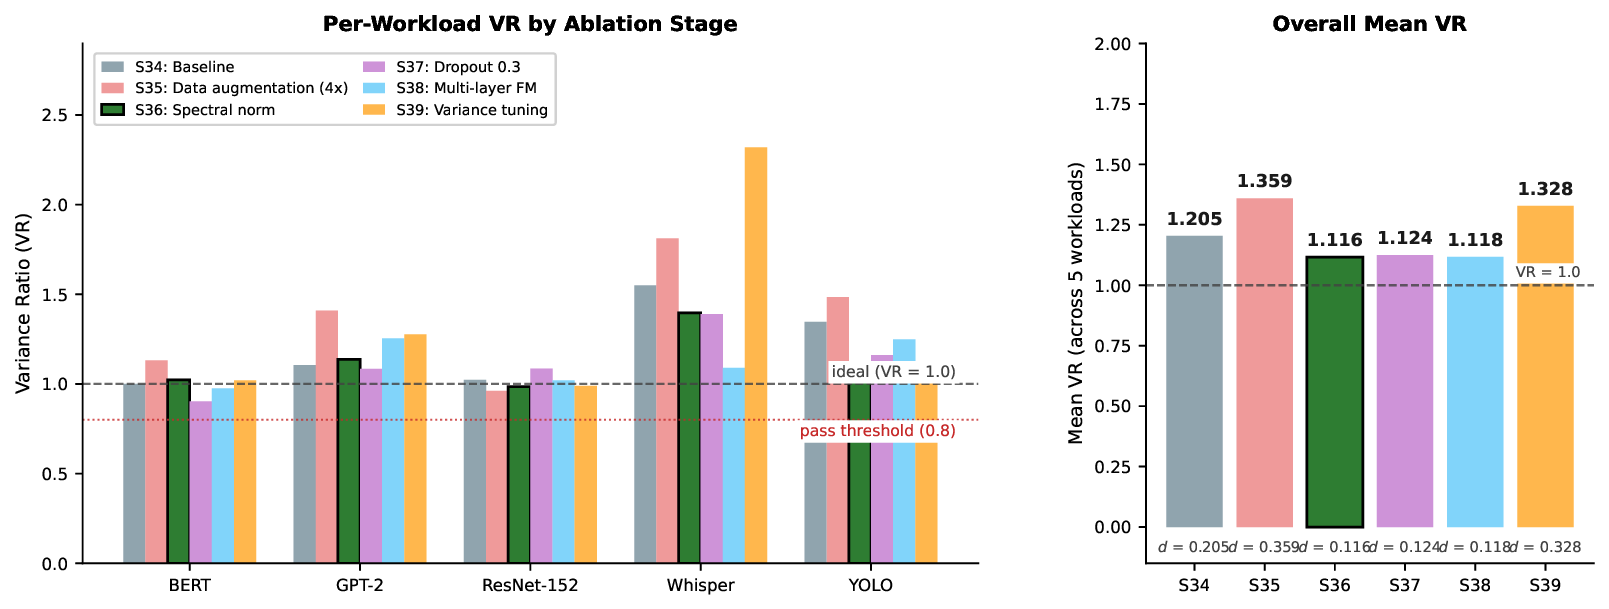
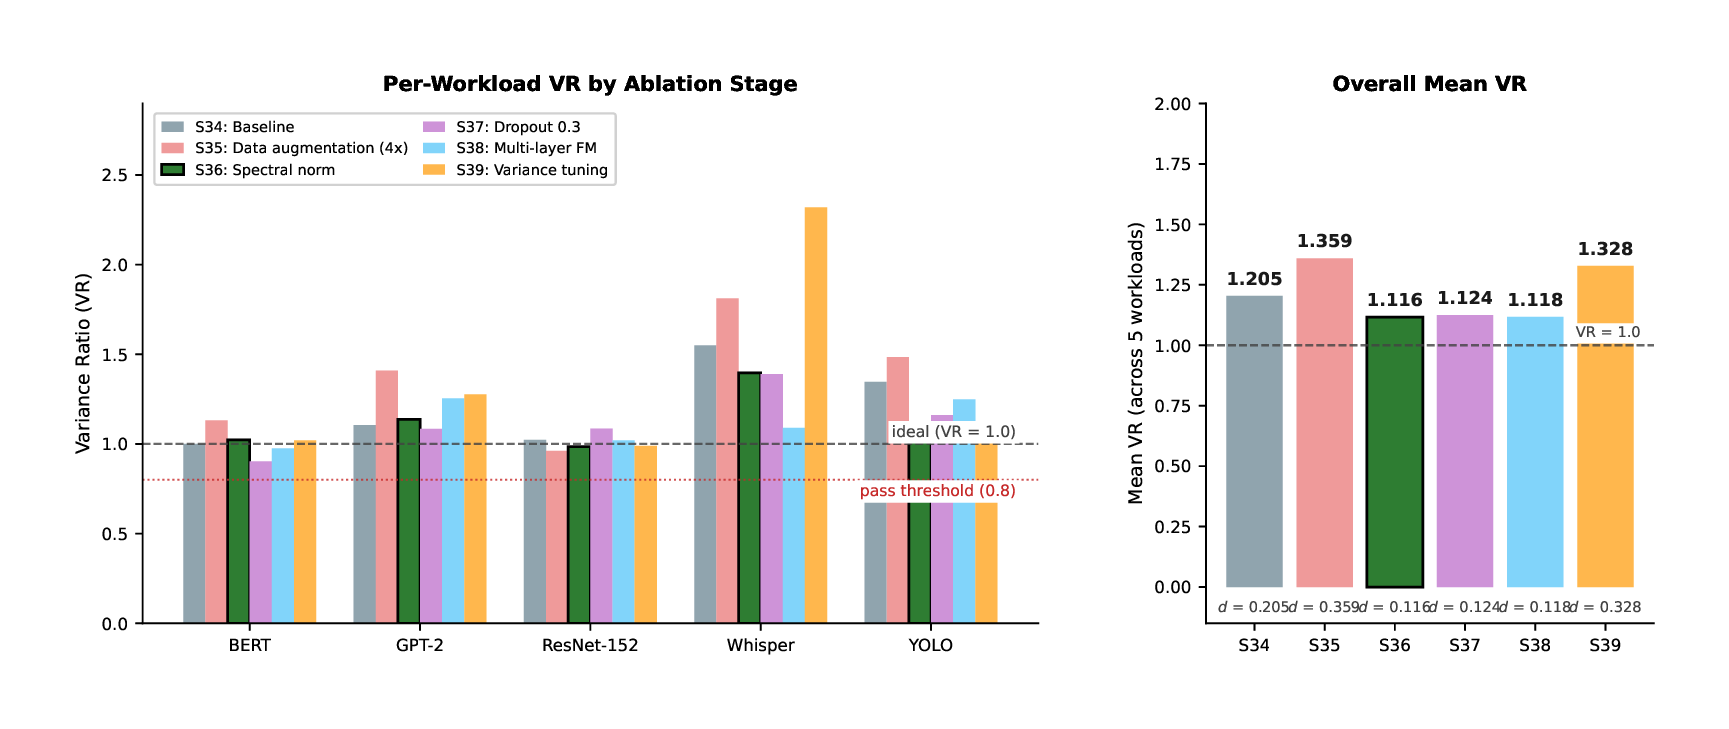
docs: updating plots in README file

diff --git a/README.md b/README.md
@@ -53,28 +53,38 @@ data distribution. Adversarial training breaks through this ceiling.
 
 ### System Architecture
 
-![System Architecture](figures/system_architecture.png)
-*Single-node Kubernetes cluster with Prometheus monitoring stack and five AI inference workloads*
+<p align="center">
+  <img src="figures/system_architecture.png" width="750"/>
+  <br><em>Single-node Kubernetes cluster with Prometheus monitoring stack and five AI inference workloads</em>
+</p>
 
 ### Model Architecture (S36)
 
-![TimeGAN S36 Architecture](figures/timegan_architecture.png)
-*S36: encoder-free generator with segment-based LSTM, BiLSTM discriminator with spectral normalization*
+<p align="center">
+  <img src="figures/timegan_architecture.png" width="750"/>
+  <br><em>S36: encoder-free generator with segment-based LSTM, BiLSTM discriminator with spectral normalization</em>
+</p>
 
 ### Real vs Synthetic Traces (r=5)
 
-![Real vs Synthetic Traces](figures/real_vs_synthetic_r5.png)
-*Real (blue) vs S36 synthetic (orange) traces at r=5 across all five workloads*
+<p align="center">
+  <img src="figures/real_vs_synthetic_r5.png" width="850"/>
+  <br><em>Real (blue) vs S36 synthetic (orange) traces at r=5 across all five workloads</em>
+</p>
 
 ### Scaling Curves
 
-![Scaling Curves](figures/scaling_curves.png)
-*Real vs synthetic scaling curves for GPU utilization and latency*
+<p align="center">
+  <img src="figures/scaling_curves.png" width="850"/>
+  <br><em>Real vs synthetic scaling curves for GPU utilization and latency</em>
+</p>
 
 ### Ablation Study
 
-![Ablation Study](figures/ablation_study.png)
-*S36 (spectral normalization) achieves the lowest deviation from ideal VR=1.0 across all ablation stages*
+<p align="center">
+  <img src="figures/ablation_study.png" width="850"/>
+  <br><em>S36 (spectral normalization) achieves the lowest deviation from ideal VR=1.0 across all ablation stages</em>
+</p>
 
 ---
 
